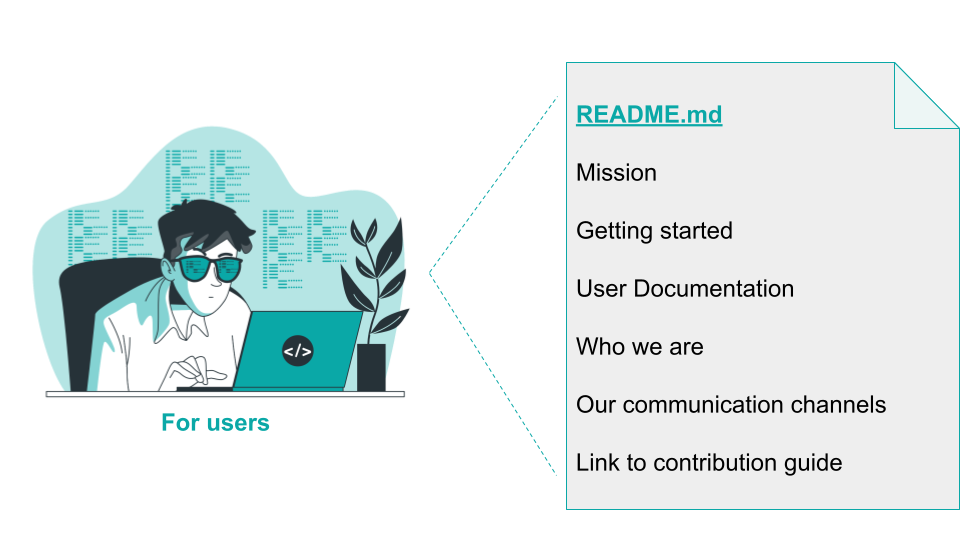
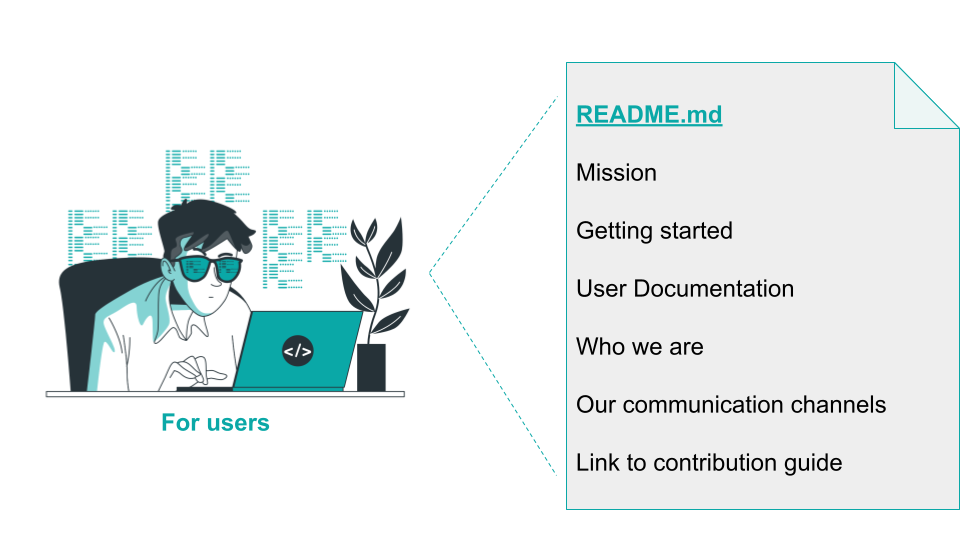
Change background. Add more docs.

Changed region(s): [[0.0312, 0.237, 0.4375, 0.7407]]

diff --git a/assets/img/standard-base-documentation/README.md b/assets/img/standard-base-documentation/README.md
@@ -1,6 +1,7 @@
 # Credits
 
-The illustration is based on the [original visual](/patterns/2-structured/project-setup/assets/base_docs_drawing.png).
+The current illustration is a digital remake of this [original visual](/patterns/2-structured/project-setup/assets/base_docs_drawing.png).
+If you want to edit this illustration, please request access to this [source document](https://docs.google.com/presentation/d/11JOByEO9QXlRLXX5BIv9rjUzPzCKErZzknD1OLcprQQ/edit?usp=sharing).
 
 The humans in the illustration are [bro](https://storyset.com/illustration/coding/bro) and [pana](https://storyset.com/illustration/high-five/pana) from Storyset.
 
